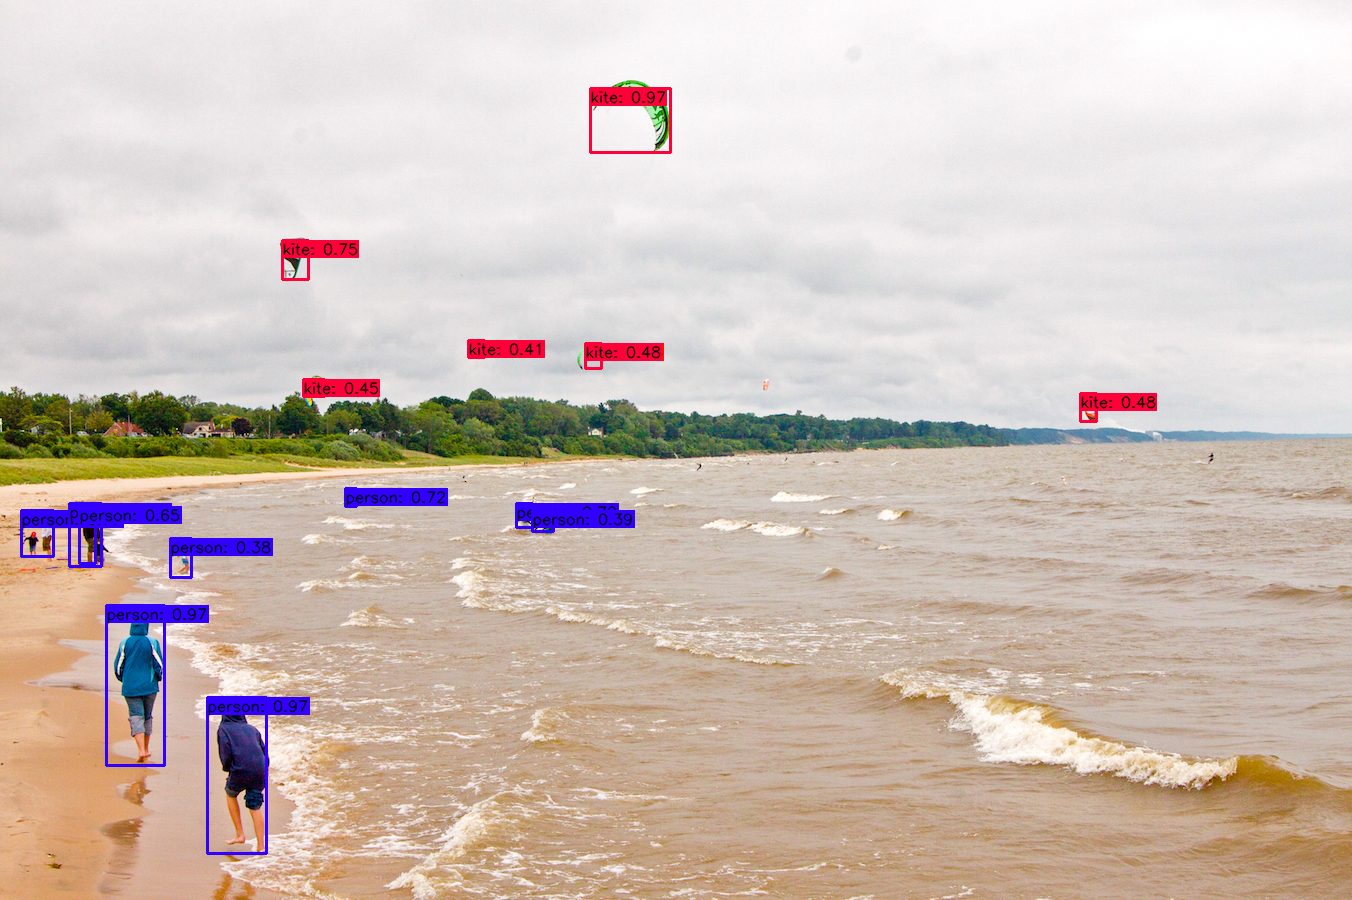
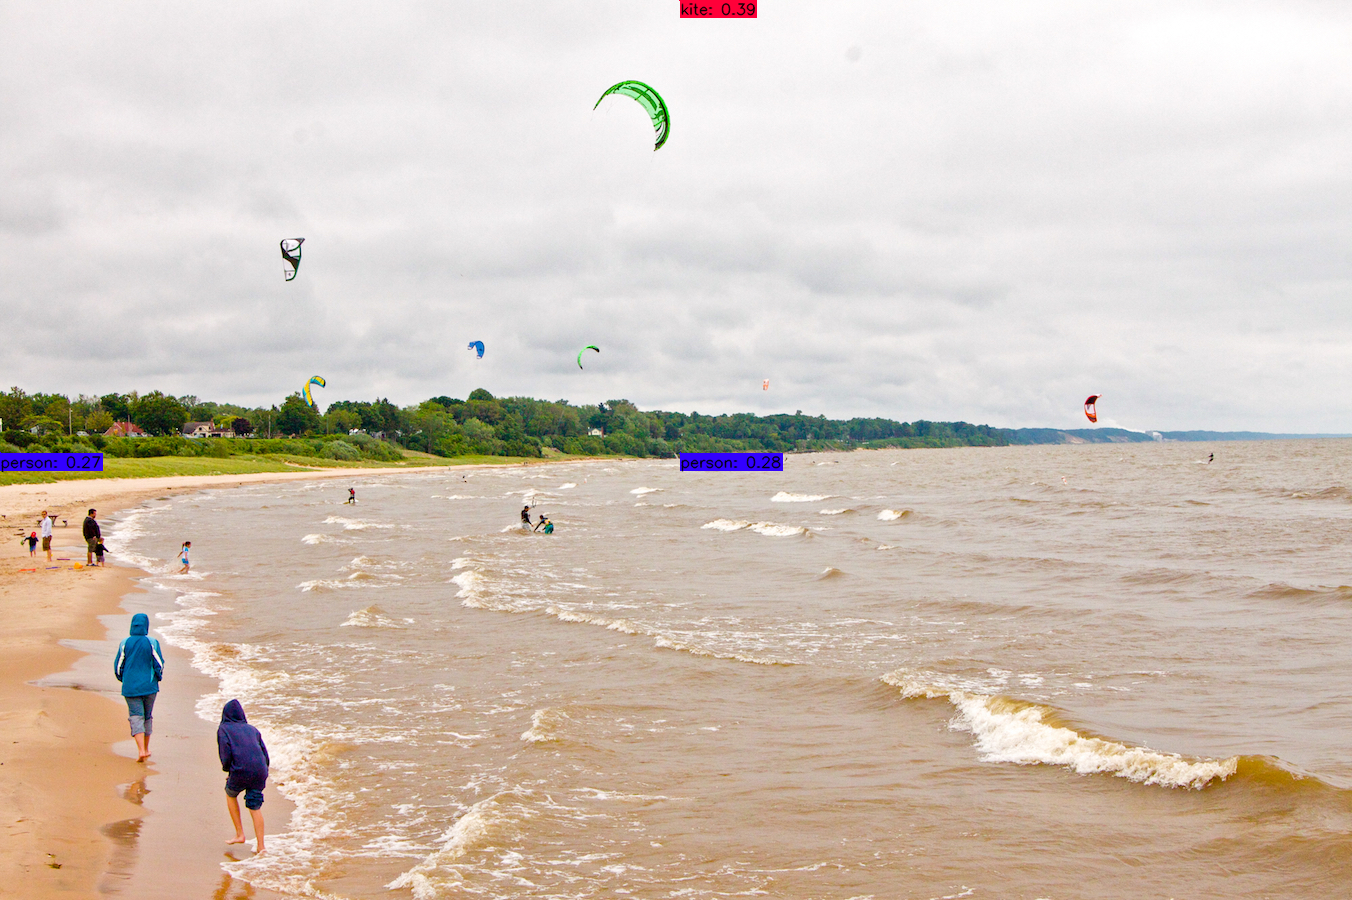
update for int8 quantization

diff --git a/detect.py b/detect.py
@@ -37,7 +37,8 @@ def main(_argv):
 
     # image_data = utils.image_preprocess(np.copy(original_image), [input_size, input_size])
     image_data = cv2.resize(original_image, (input_size, input_size))
-    image_data = image_data / 255.
+    dividend = 1 if 'int8' in FLAGS.weights else 255.
+    image_data = image_data / dividend
     # image_data = image_data[np.newaxis, ...].astype(np.float32)
 
     images_data = []
@@ -46,19 +47,26 @@ def main(_argv):
     for i in range(1):
         images_data.append(image_data)
     images_data = np.asarray(images_data).astype(dtype)
+    print(images_data[0])
 
     if FLAGS.framework == 'tflite':
         interpreter = tf.lite.Interpreter(model_path=FLAGS.weights)
         interpreter.allocate_tensors()
         input_details = interpreter.get_input_details()
         output_details = interpreter.get_output_details()
+        print("input image", np.shape(images_data))
         for key,value in input_details[0].items():
             print(key,value)
         for key,value in output_details[0].items():
             print(key,value)
+        print(np.shape(images_data))
         interpreter.set_tensor(input_details[0]['index'], images_data)
         interpreter.invoke()
         pred = [interpreter.get_tensor(output_details[i]['index']) for i in range(len(output_details))]
+        if 'int8' in FLAGS.weights:
+            pred = [dequantize_tensor(pred[i], output_details[i]) for i in range(len(pred))]
+        print(np.shape(pred),np.asarray(pred).dtype)
+        input()
         if FLAGS.model == 'yolov3' and FLAGS.tiny == True:
             boxes, pred_conf = filter_boxes(pred[1], pred[0], score_threshold=0.25, input_shape=tf.constant([input_size, input_size]))
         else:
@@ -66,18 +74,20 @@ def main(_argv):
             for value in pred_bbox:
                 boxes = value[:, :, 0:4]
                 pred_conf = value[:, :, 4:]
-            # boxes, pred_conf = filter_boxes(pred[0], pred[1], score_threshold=0.25, input_shape=tf.constant([input_size, input_size]))
+            # boxes, pred_conf = filter_boxes(boxes, pred_conf, score_threshold=0.25, input_shape=tf.constant([input_size, input_size]))
     else:
         saved_model_loaded = tf.saved_model.load(FLAGS.weights, tags=[tag_constants.SERVING])
         infer = saved_model_loaded.signatures['serving_default']
         batch_data = tf.constant(images_data)
         pred_bbox = infer(batch_data)
-        for key,value in pred_bbox.items():
-            print(f"{key}: {np.shape(value)}")
+        
+        print(pred_bbox.keys())
         for key, value in pred_bbox.items():
+            print(np.shape(value))
             boxes = value[:, :, 0:4]
             pred_conf = value[:, :, 4:]
 
+    # boxes = tf.cast(boxes,tf.float32)
     boxes, scores, classes, valid_detections = tf.image.combined_non_max_suppression(
         boxes=tf.reshape(boxes, (tf.shape(boxes)[0], -1, 1, 4)),
         scores=tf.reshape(
@@ -94,6 +104,12 @@ def main(_argv):
     image.show()
     image = cv2.cvtColor(np.array(image), cv2.COLOR_BGR2RGB)
     cv2.imwrite(FLAGS.output, image)
+
+
+def dequantize_tensor(input,tensor_details):
+    scale = tensor_details['quantization'][0]
+    zero_point = tensor_details['quantization'][1]
+    return (scale*(input-zero_point)).astype(np.float32)
 
 if __name__ == '__main__':
     try:

diff --git a/convert_tflite.py b/convert_tflite.py
@@ -16,7 +16,7 @@ flags.DEFINE_string('dataset', "/Volumes/Elements/data/coco_dataset/coco/5k.txt"
 
 def representative_data_gen():
   fimage = open(FLAGS.dataset).read().split()
-  for input_value in range(10):
+  for input_value in range(1500):
     if os.path.exists(fimage[input_value]):
       original_image=cv2.imread(fimage[input_value])
       original_image = cv2.cvtColor(original_image, cv2.COLOR_BGR2RGB)
@@ -61,7 +61,7 @@ def demo():
 
   input_shape = input_details[0]['shape']
 
-  input_data = np.array(np.random.random_sample(input_shape), dtype=np.float32)
+  input_data = np.array(np.random.random_sample(input_shape), dtype=np.int8)
 
   interpreter.set_tensor(input_details[0]['index'], input_data)
   interpreter.invoke()
